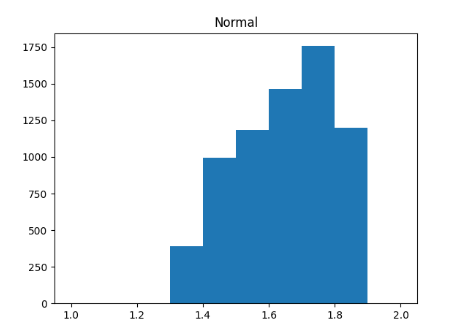
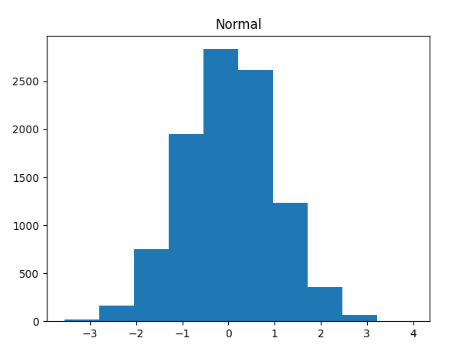
new normal distribution

Changed region(s): [[0.0304, 0.0301, 0.9435, 0.9639]]

diff --git a/main.py b/main.py
@@ -1,13 +1,17 @@
 # Wojciech Szlosek
 
 import math
+from typing import Callable
+
 import matplotlib.pyplot as plt
 import numpy
-
+import scipy
+from scipy.stats import norm, poisson
+import itertools
 
 class RandomNumberGenerator:
 
-    def __init__(self, a=16807, n=2147483647, c=0, seed=30):
+    def __init__(self, a=48271, n=2147483647, c=0, seed=1):
         self.out = seed
         self.a = a
         self.n = n
@@ -104,15 +108,15 @@ class Normal:
         M = 0.357070192
 
         if 0 <= w1 and w1 <= p1:
-            return (2 * w1) / p1 - 1 + self.v.__next__() + self.w.__next__()
+            return (2 * w1) / p1 - 1 + self.u.__next__() + self.u.__next__()
 
         if p1 < w1 and w1 <= (p1 + p2):
-            return 1.5 * ((w1 - p1) / p2 - 1 + self.v.__next__())
+            return 1.5 * ((w1 - p1) / p2 - 1 + self.u.__next__())
 
         if (1 - p4) < w1 and w1 <= 1:
             while True:
-                s1 = self.v.__next__()
-                s2 = self.w.__next__()
+                s1 = self.u.__next__()
+                s2 = self.u.__next__()
                 x = 4.5 - math.log(s2, math.e)
                 if (x * s1 * s1 > 4.5):
                     break
@@ -122,7 +126,7 @@ class Normal:
         if p1 + p2 < w1 and w1 <= (1 - p4):
             while True:
                 w1 = self.u.__next__(-3, 3)
-                w2 = self.v.__next__()
+                w2 = self.u.__next__()
                 v = abs(w1)
 
                 W = (c4 / M) * (3 - v) * (3 - v)
@@ -140,40 +144,67 @@ class Normal:
 
         return 0
 
-    def r2(self):  # rozklad normalny N(0, 1)
+    def r2(self):  # rozklad normalny N(0, 1), źle
         while True:
             w1 = self.u.__next__()
-            w2 = self.v.__next__(-((2 / math.e) ** 0.5), (2 / math.e) ** 0.5)
+            w2 = self.u.__next__(-((2 / math.e) ** 0.5), (2 / math.e) ** 0.5)
             t = w2 / w1
 
             if w1 * w1 > math.exp(-t * t / 2):
                 break
         return t
 
-
     def r3(self):
         while True:
             w1 = self.e.run()
             w2 = self.u.__next__()
 
-            if ((2*math.e/math.pi)**0.5)*w2*math.exp(-w1) <= ((2/math.pi)**0.5) * math.exp(-w1*w1/2):
+            if ((2 * math.e / math.pi) ** 0.5) * w2 * math.exp(-w1) <= ((2 / math.pi) ** 0.5) * math.exp(-w1 * w1 / 2):
                 break
         return w1
+
+    def r4(self): # Box - Muller
+        w1 = self.u.__next__()
+        w2 = self.u.__next__()
+        a = 2 * math.pi * w2
+        p = (-2 * math.log(w1, math.e)) ** 0.5
+
+        return (p * math.cos(a))
+
+
+    def r5(self): # polar method
+        while True:
+            w1 = self.u.__next__()
+            w2 = self.u.__next__()
+            v1 = 2*w1 - 1
+            v2 = 2*w2 - 1
+            w = v1*v1 + v2*v2
+
+            if w >= 1:
+                break
+
+        return (v1 * (-2*math.log(w, math.e)/w))
 
 
 class Tests:
 
+    def __init__(self, median):
+        self.median = median
+
     # https://www.codespeedy.com/runs-test-of-randomness-in-python-programming/
-    def runs_test(l, l_median):  # testy serii
+    def runs_test(self, l):
+
         runs, n1, n2 = 0, 0, 0
 
         for i in range(len(l)):
 
-            if (l[i] >= l_median and l[i - 1] < l_median) or (l[i] < l_median and l[i - 1] >= l_median):
+            # no. of runs
+            if (l[i] >= self.median and l[i - 1] < self.median) or (l[i] < self.median and l[i - 1] >= self.median):
                 runs += 1
 
-            if (l[i]) >= l_median:
+            if (l[i]) >= self.median:
                 n1 += 1
+
             else:
                 n2 += 1
 
@@ -185,6 +216,43 @@ class Tests:
 
         return z
 
+
+    def chi_square(self, data, cdf1: Callable, bin=200):
+        bin = int(2*len(data)**(0.4))
+        d = bin
+        sort = sorted(data)
+        minimum = min(sort)
+        maximum = max(sort)
+        n = len(data)
+
+        walker = (maximum-minimum)/bin
+        bins_ranges = [(minimum + i * walker, minimum + (i+1)*walker) for i in range(bin)]
+        bins = [[] for _ in range(bin)]
+
+        i = 0
+        for s in sort:
+            while i < bin-1 and s > bins_ranges[i][1]:
+                i += 1
+            bins[i].append(s)
+
+        chi2 = 0
+
+        for b, lu in zip(bins, bins_ranges):
+            ex = n * ((cdf1[int(lu[1])]) - (cdf1[int(lu[0])]))
+            if ex == 0:
+                d -= 1
+                continue
+
+            obs = len(bins)
+            chi2 += ((obs-ex)**2)/ex
+
+        if chi2 > scipy.stats.chi2.ppf(0.95, d):
+            passed = False
+
+        else:
+            passed = True
+
+        return chi2, passed
 
 class Histogram:
     def __init__(self, n=10):
@@ -204,11 +272,13 @@ class Histogram:
     def draw_UN(self):
         u = UniformNumberGenerator()
         l = []
+        a = 0
+        b = 1
 
         for i in range(self.n):
-            l.append(u.__next__())
+            l.append(u.__next__(a, b))
 
-        plt.title("Uniform numbers")
+        plt.title(f"Uniform numbers [U({a},{b})]")
         plt.hist(l)
         plt.show()
 
@@ -230,7 +300,7 @@ class Histogram:
         for i in range(self.n):
             l.append(b.run(p, N))
 
-        plt.title("Binomial")
+        plt.title(f"Binomial [B({p}, {N})]")
         plt.hist(l)
         plt.show()
 
@@ -241,7 +311,7 @@ class Histogram:
         for i in range(self.n):
             l.append(p.run(lamb))
 
-        plt.title("Poisson")
+        plt.title(f"Poisson [P({lamb})]")
         plt.hist(l)
         plt.show()
 
@@ -257,17 +327,18 @@ class Histogram:
         plt.show()
 
     def draw_normal(self):
-        n = Normal()
+        nor = Normal()
         l = []
 
         for i in range(self.n):
-            l.append(n.r2())
+            l.append(nor.r4())
 
         plt.title("Normal")
-        plt.hist(l, range=[1, 2])
+        plt.hist(l)
         plt.show()
 
 
 if __name__ == "__main__":
+
     h = Histogram(10000)
     h.draw_normal()
